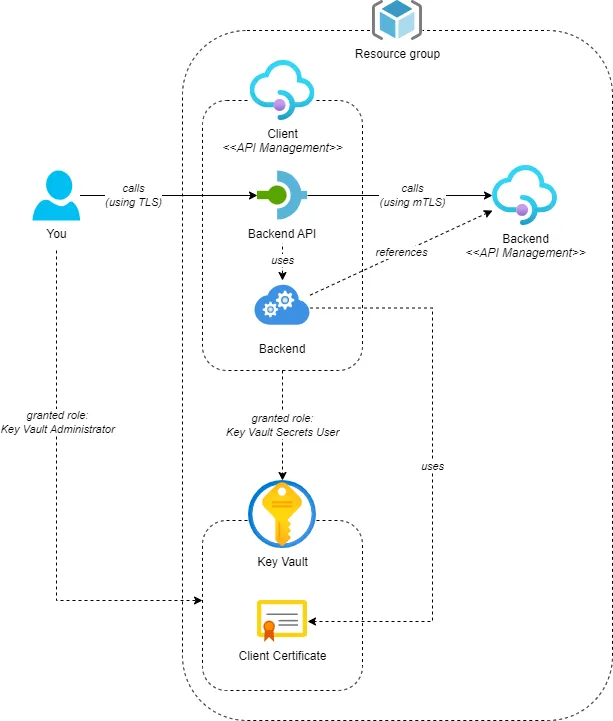
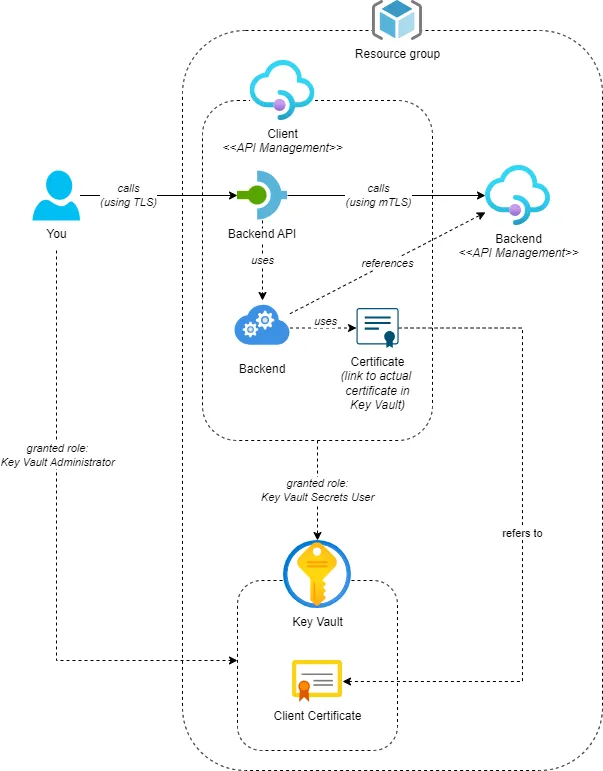
Update overview

diff --git a/content/blog/apim-client-certificate-series/03-securing-backend-connections-with-mtls-in-apim/index.md b/content/blog/apim-client-certificate-series/03-securing-backend-connections-with-mtls-in-apim/index.md
@@ -40,12 +40,13 @@ The following diagram provides an overview of the prerequisites:
 
 ![Prerequisites](../../../../../images/apim-client-certificate-series/03-securing-backend-connections-with-mtls-in-apim/diagrams-prerequisites.webp)
 
-You can create these resources manually, but I've created a Bicep template that will deploy all of them. You can find the Bicep template [here](https://github.com/ronaldbosma/blog-code-examples/tree/master/apim-client-certificate-series/03-securing-backend-connections-with-mtls-in-apim/prerequisites/prerequisites.bicep).
+You can create these resources manually, but I've created a Bicep template that will deploy all the prerequisites. You can find the Bicep template [here](https://github.com/ronaldbosma/blog-code-examples/tree/master/apim-client-certificate-series/03-securing-backend-connections-with-mtls-in-apim/prerequisites/prerequisites.bicep).
 
 You can use the accompanying [deploy-prerequisites.ps1](https://github.com/ronaldbosma/blog-code-examples/tree/master/apim-client-certificate-series/03-securing-backend-connections-with-mtls-in-apim/prerequisites/deploy-prerequisites.ps1) PowerShell script to deploy the prerequisites. It uses the Azure CLI to:
 
 1. Create the resource group if it doesn't exist.
-1. Get your user id to grant you access to Key Vault. It uses the `az ad signed-in-user show` command. _(If this fails, use the `KeyVaultAdministratorId` parameter to specify your id manually.)_
+1. Get your user id to grant you access to Key Vault.  
+   It uses the `az ad signed-in-user show` command. If this fails, use the `KeyVaultAdministratorId` parameter to specify your id manually.
 1. Deploy the Bicep template.
 
 Here's an example of how to run the script. Make sure to replace `<your-resource-group>`, `<your-apim-client-instance>`, `<your-apim-backend-instance>`, and `<your-key-vault>` with your own values.
@@ -212,7 +213,7 @@ az keyvault certificate create --vault-name "<your-key-vault>" `
                                --policy `@defaultpolicy.json
 ```
 
-This will create a certificate with the name `generated-client-certificate` that will be valid for 1 year by default. The private key is exportable by default, which is required to use the certificate in API Management. Also, the key type is RSA by default, which is important. We'll come back to this later on.
+This will create a certificate with the name `generated-client-certificate` that will be valid for 1 year. The private key is exportable, which is required when using the certificate in API Management. Also, the key type is RSA, which is important. We'll come back to this later on in the [considerations](#considerations) section.
 
 With the client certificate in the Key Vault, we can use it in API Management. Open your `main.bicep` file and add the following code:
 
@@ -234,11 +235,11 @@ resource clientCertificateSecret 'Microsoft.KeyVault/vaults/secrets@2023-07-01' 
 }
 ```
 
-We're creating a reference to the client certificate in the Key Vault using the `Microsoft.KeyVault/vaults/secrets` resource. Since the `Microsoft.KeyVault/vaults/certificates` resources does not exist, this is the only way to reference the certificate in the Key Vault. Although we've imported the client certificate as a certificate, the Key Vault will also create a secret with the same name that can be used to reference the certificate. 
+This creates a symbol to the client certificate in the Key Vault using the `Microsoft.KeyVault/vaults/secrets` resource. Since the `Microsoft.KeyVault/vaults/certificates` resource type does not exist, using a secret is the only way to reference the certificate in the Key Vault. Although we've imported the client certificate as a certificate, the Key Vault will also create a secret with the same name that can be used to reference the certificate. 
 
 The name of the client certificate in the Key Vault can be specified through the `clientCertificateSecretName` parameter. This is useful if you want to try out different types of certificates.
 
-Next, add the following code to the `main.bicep` file to create a references to the client certificate from the client API Management instance:
+Next, add the following code to the `main.bicep` file to link certificate from the client API Management instance:
 
 ```bicep
 resource clientCertificate 'Microsoft.ApiManagement/service/certificates@2022-08-01' = {
@@ -252,7 +253,7 @@ resource clientCertificate 'Microsoft.ApiManagement/service/certificates@2022-08
 }
 ```
 
-This code creates a 'certificate' resource that is a reference to the client certificate in the Key Vault. The `secretIdentifier` property is set to the `secretUri` of the client certificate secret in the Key Vault. This is the URI that can be used to always get the latest version of the secret.
+This code creates a 'certificate' resource that is a reference to the client certificate in the Key Vault. The `secretIdentifier` property is set to the `secretUri` of the client certificate secret in the Key Vault. 
 
 The last step is to update the backend to use the client certificate for authentication. Replace the current `testBackend` resource with the following code:
 
@@ -276,7 +277,7 @@ resource testBackend 'Microsoft.ApiManagement/service/backends@2022-08-01' = {
 }
 ```
 
-We've added a `credentials` property to the backend that contains a `certificateIds` property. This property is an array containing the id of the client certificate we created earlier. This will make sure that the client certificate is used for authentication when connecting to the backend.
+This new version has a `credentials` property that contains a `certificateIds` property. This property is an array containing the id of the 'certificate' resource we created earlier. This will make sure that the client certificate is used for authentication when connecting to the backend.
 
 Save the `main.bicep` file and run the following command in a PowerShell prompt to deploy the resources. Make sure to replace `<your-resource-group>`, `<your-apim-client-instance>`, `<your-apim-backend-instance>`, and `<your-key-vault>` with your own values.
 
